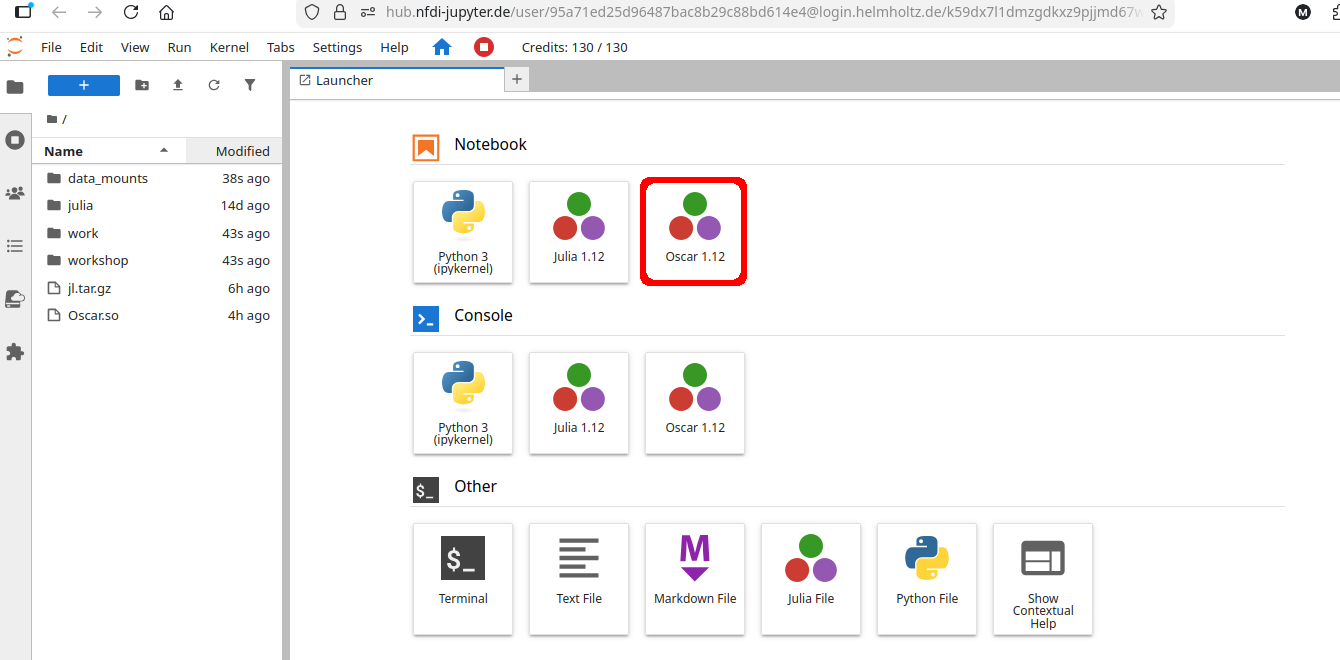
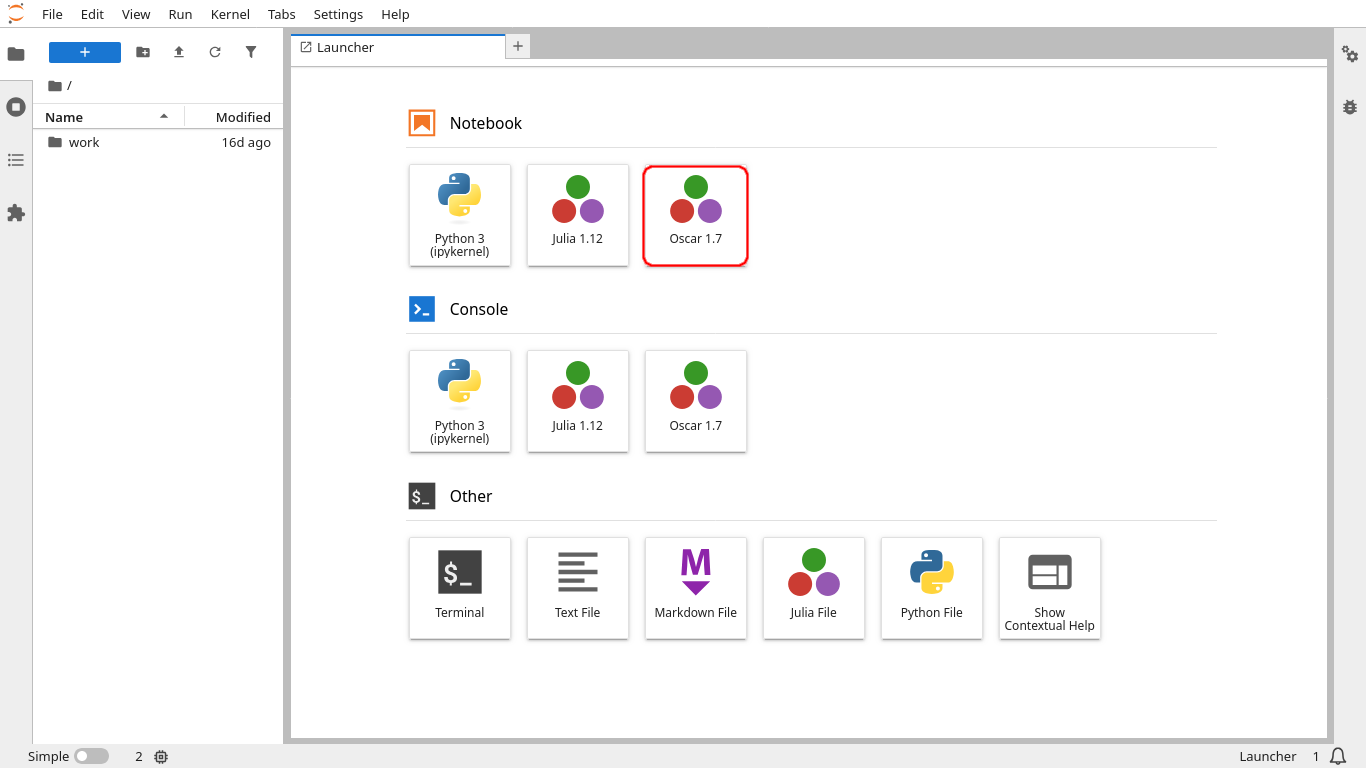
Add instruction of what to do if user misclicks

Changed region(s): [[0.0, 0.0, 1.0, 1.0], [0.0, 0.9697, 0.1224, 1.0], [0.0, 0.5152, 0.0306, 0.5455]]

diff --git a/try-online/index.md b/try-online/index.md
@@ -39,8 +39,12 @@ Use the following steps:
 5. Select the option in the notebook section which says "Oscar".
    ![Oscar selection in notebook section](oscar-notebook.png){: width="50%" }
 
-6. Try to execute a simple statement to check that the Julia kernel has started and is connected to the
-   notebook, `println(4)`, for example. (This may take multiple minutes as the server finishes
+   If you accidentally started the OSCAR entry in the "console" section (instead of the "notebook"
+   section), or any other of the listed entries, don't worry: you can just close the jupyter tab to
+   get back to the launcher page.
+
+6. Try to execute a simple statement to check that the Julia kernel has started and is connected to
+   the notebook, `println(4)`, for example. (This may take multiple minutes as the server finishes
    setting up things in the background.)
 
 7. You can now use OSCAR as per normal instructions. Maybe try out the [Linear Algebra
